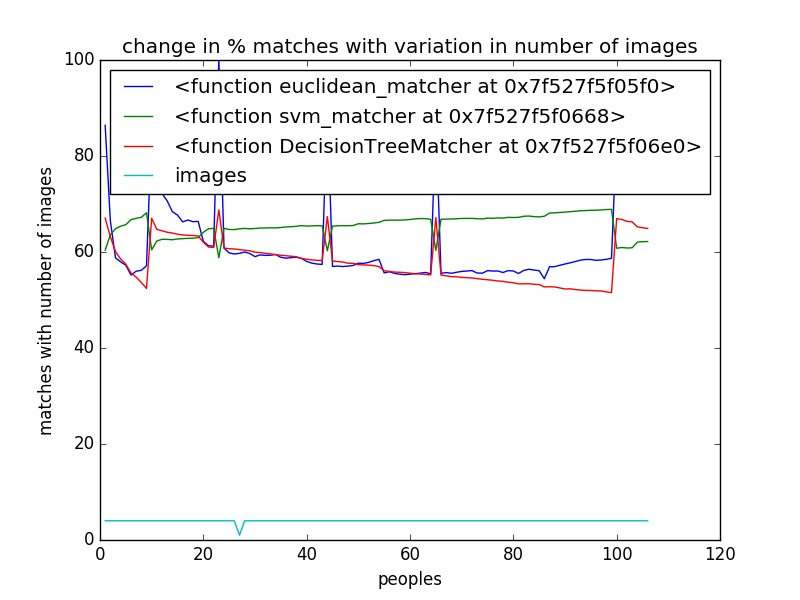
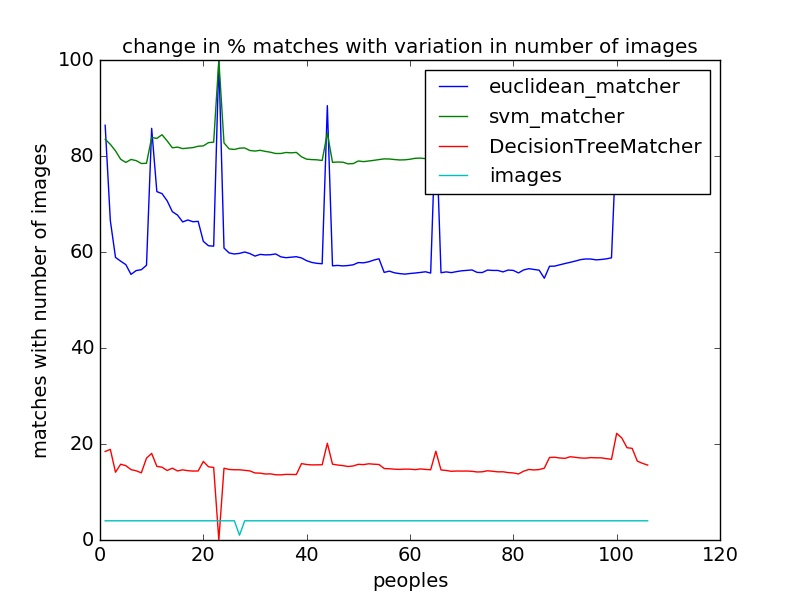
loaclised percentages in match_percentage

diff --git a/match_percentage.py b/match_percentage.py
@@ -10,7 +10,7 @@ from matcher import euclidean_matcher
 from matcher import svm_matcher
 from matcher import DecisionTreeMatcher
 import matplotlib.pyplot as plt
-
+import matplotlib
 
 
 data=np.load("database/data.npy")
@@ -21,15 +21,21 @@ f=plt.figure()
 ax=f.add_subplot(111)
 for item in ([ax.title, ax.xaxis.label, ax.yaxis.label] +
              ax.get_xticklabels() + ax.get_yticklabels()):
-    item.set_fontsize(14)
+    item.set_fontsize(5)
+font = {'family' : 'normal',
+        'weight' : 'bold',
+        'size'   : 8}
+
+plt.rc('font', **font)
 path=easygui.diropenbox("select the directory you want to check your database on")
 for func in [euclidean_matcher,svm_matcher,DecisionTreeMatcher]:
-	success=0
-	fail=0
-	total=0
 	percentages=[]
 	people=[]
+	images=[]
 	for persons in os.listdir(path):
+		success=0
+		fail=0
+		total=0
 		goal=persons
 		people.append(int(persons))
 		color_path=path+'/'+persons+'/RGB'
@@ -65,11 +71,12 @@ for func in [euclidean_matcher,svm_matcher,DecisionTreeMatcher]:
 
 
 			#print "checking ",color_image,success,fail,total
+			images.append(total)
 		print str(func).split()[1]," after ",persons," percentage is ",float(success)*100/total
 		percentages.append(float(success)*100/total)
-	images,p=np.histogram(labels,range(int(min(labels)),int(max(labels))+2))
-	p,images=zip(*sorted(zip(p,images)))
-	people,percentages=zip(*sorted(zip(people,percentages)))
+	#images,p=np.histogram(labels,range(int(min(labels)),int(max(labels))+2))
+	#p,images=zip(*sorted(zip(p,images)))
+	people,percentages,images=zip(*sorted(zip(people,percentages,images)))
 	print people
 	print images
 	print percentages

diff --git a/histogram.py b/histogram.py
@@ -36,5 +36,12 @@ def histogram2(image,horizontal_slices,vertical_slices):
 		n=h/vertical_slices
 		h=vertical_slices*(n+1)
 	image=cv2.resize(image,(w,h))
-	print image.shape
-
+	#print image.shape
+	ret=[]
+	kernel_height=image.shape[0]/vertical_slices
+	kernel_width=image.shape[1]/horizontal_slices
+	for i in range(0,image.shape[1],kernel_width):
+		for j in range(0,image.shape[0],kernel_height):
+			sliced=image[i:i+kernel_width,j:j+kernel_height]
+			ret.append(sliced)
+	return ret
